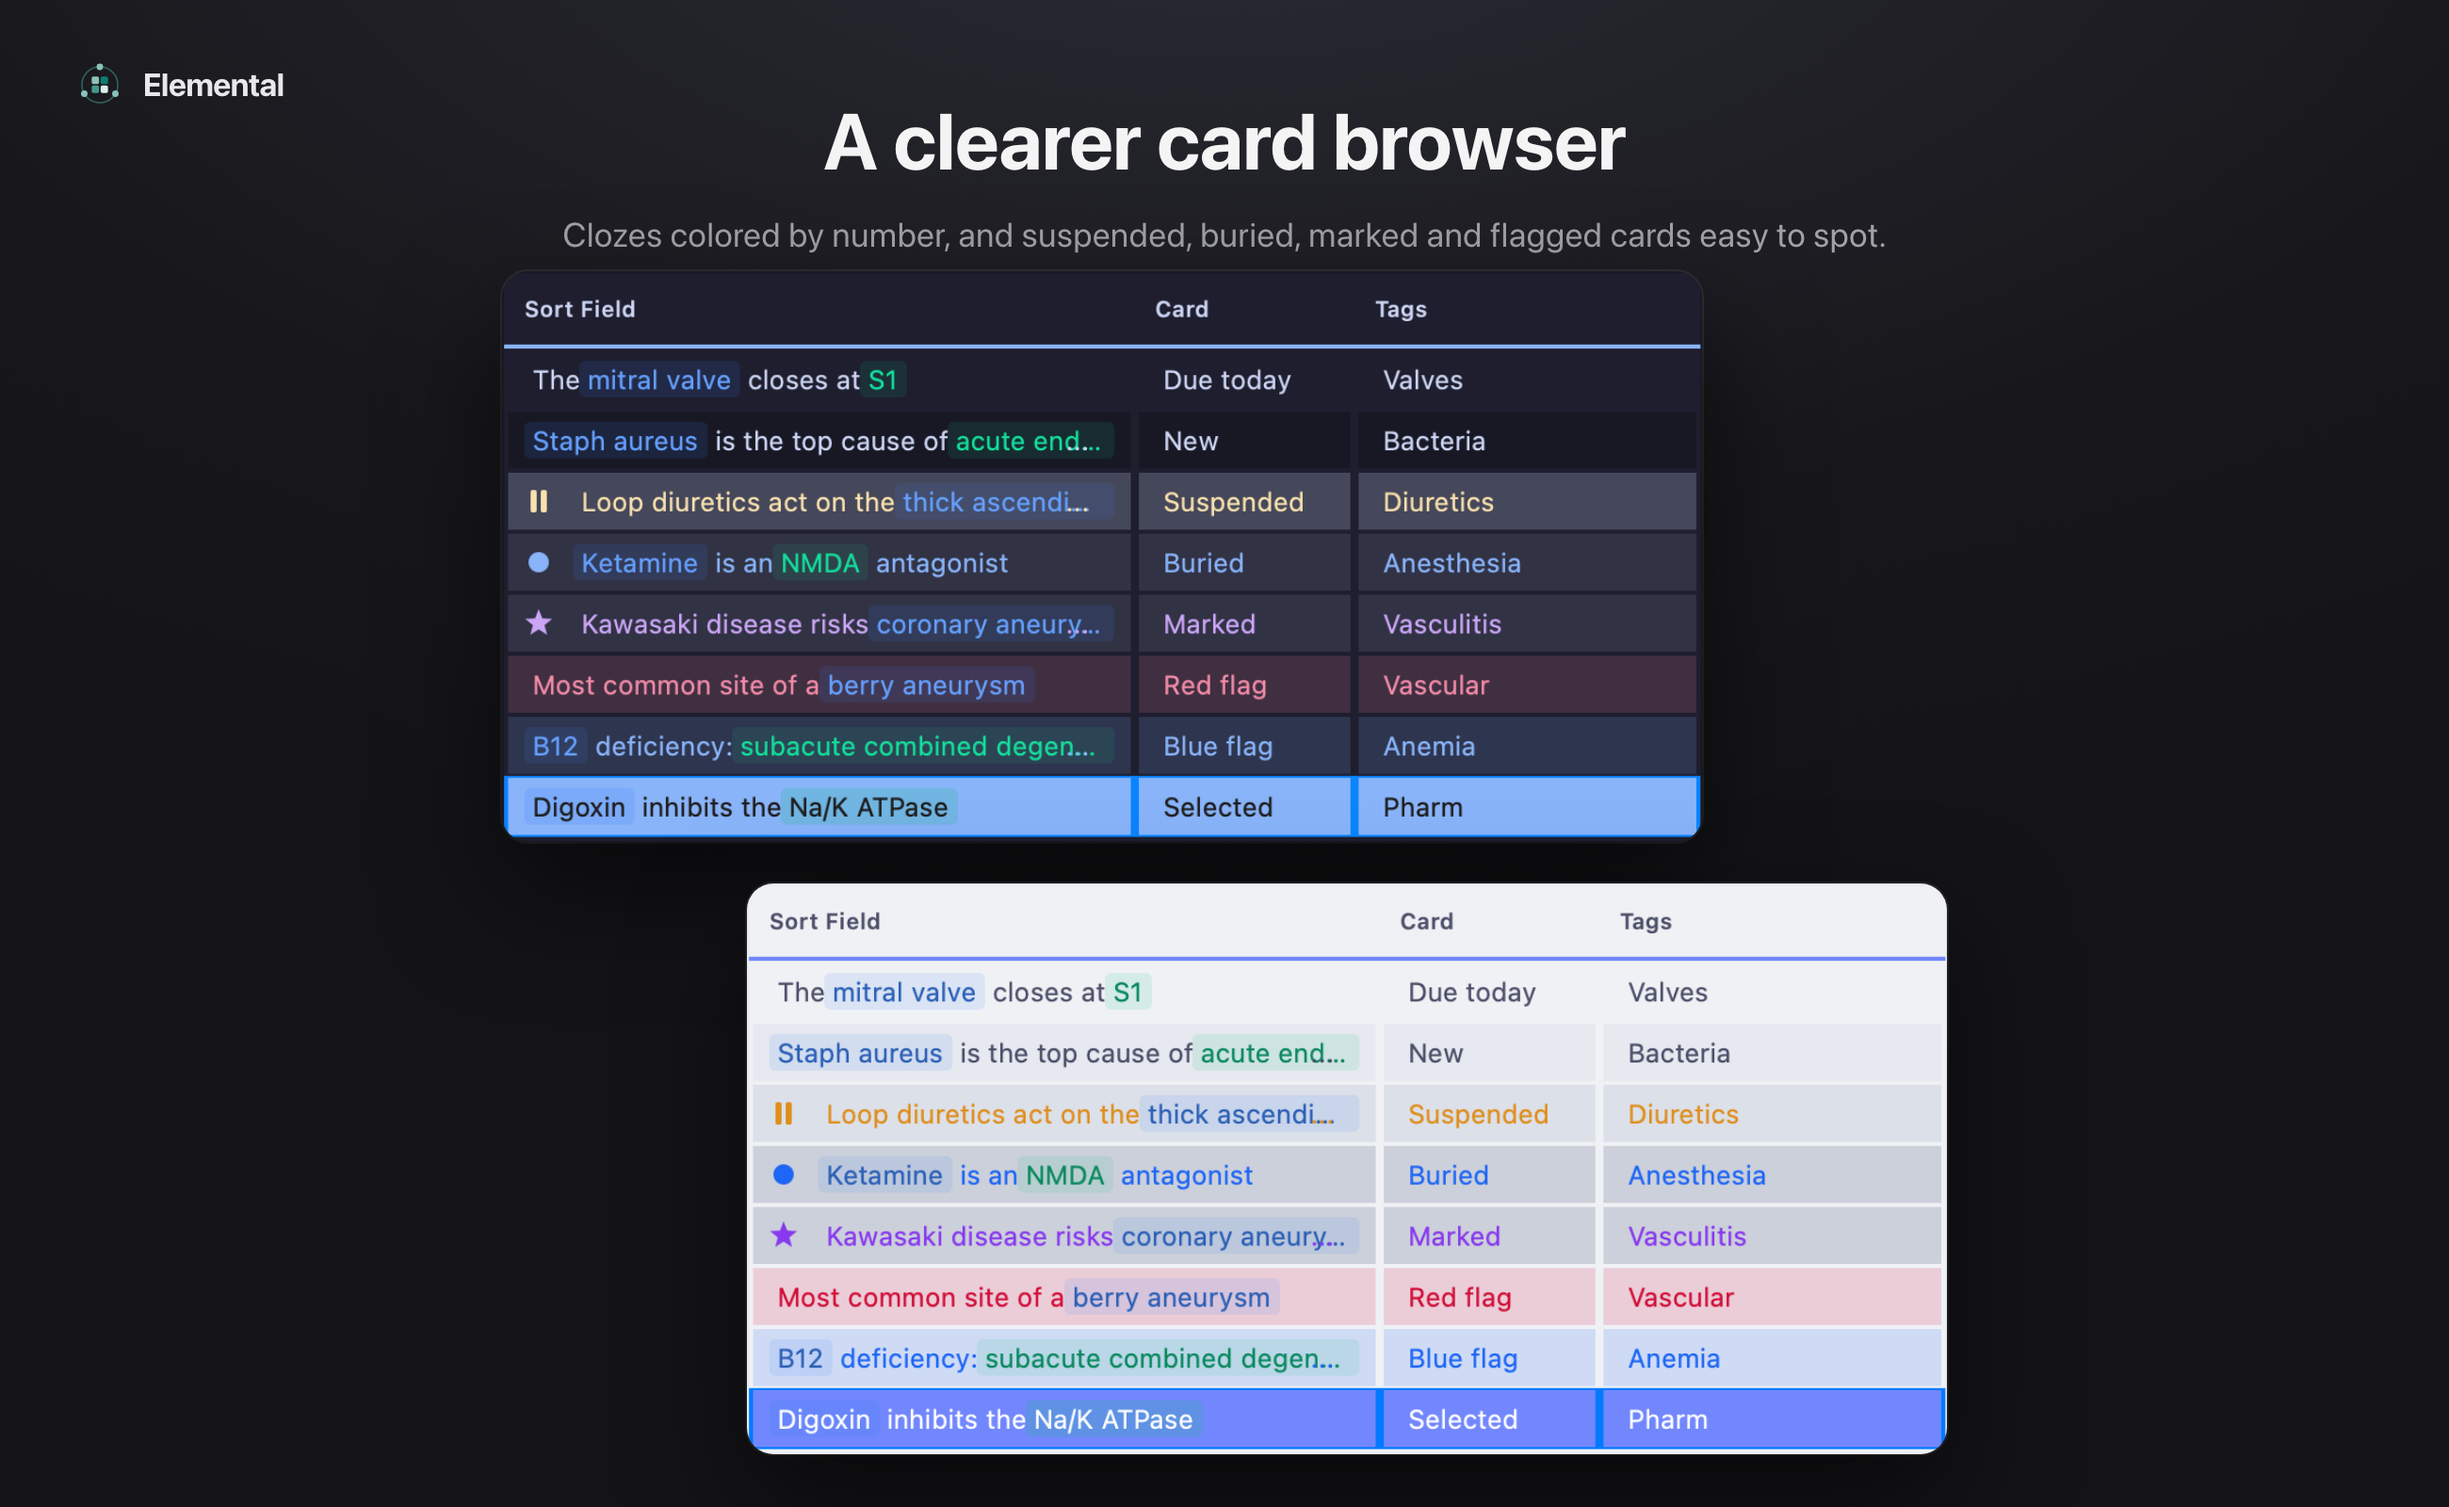
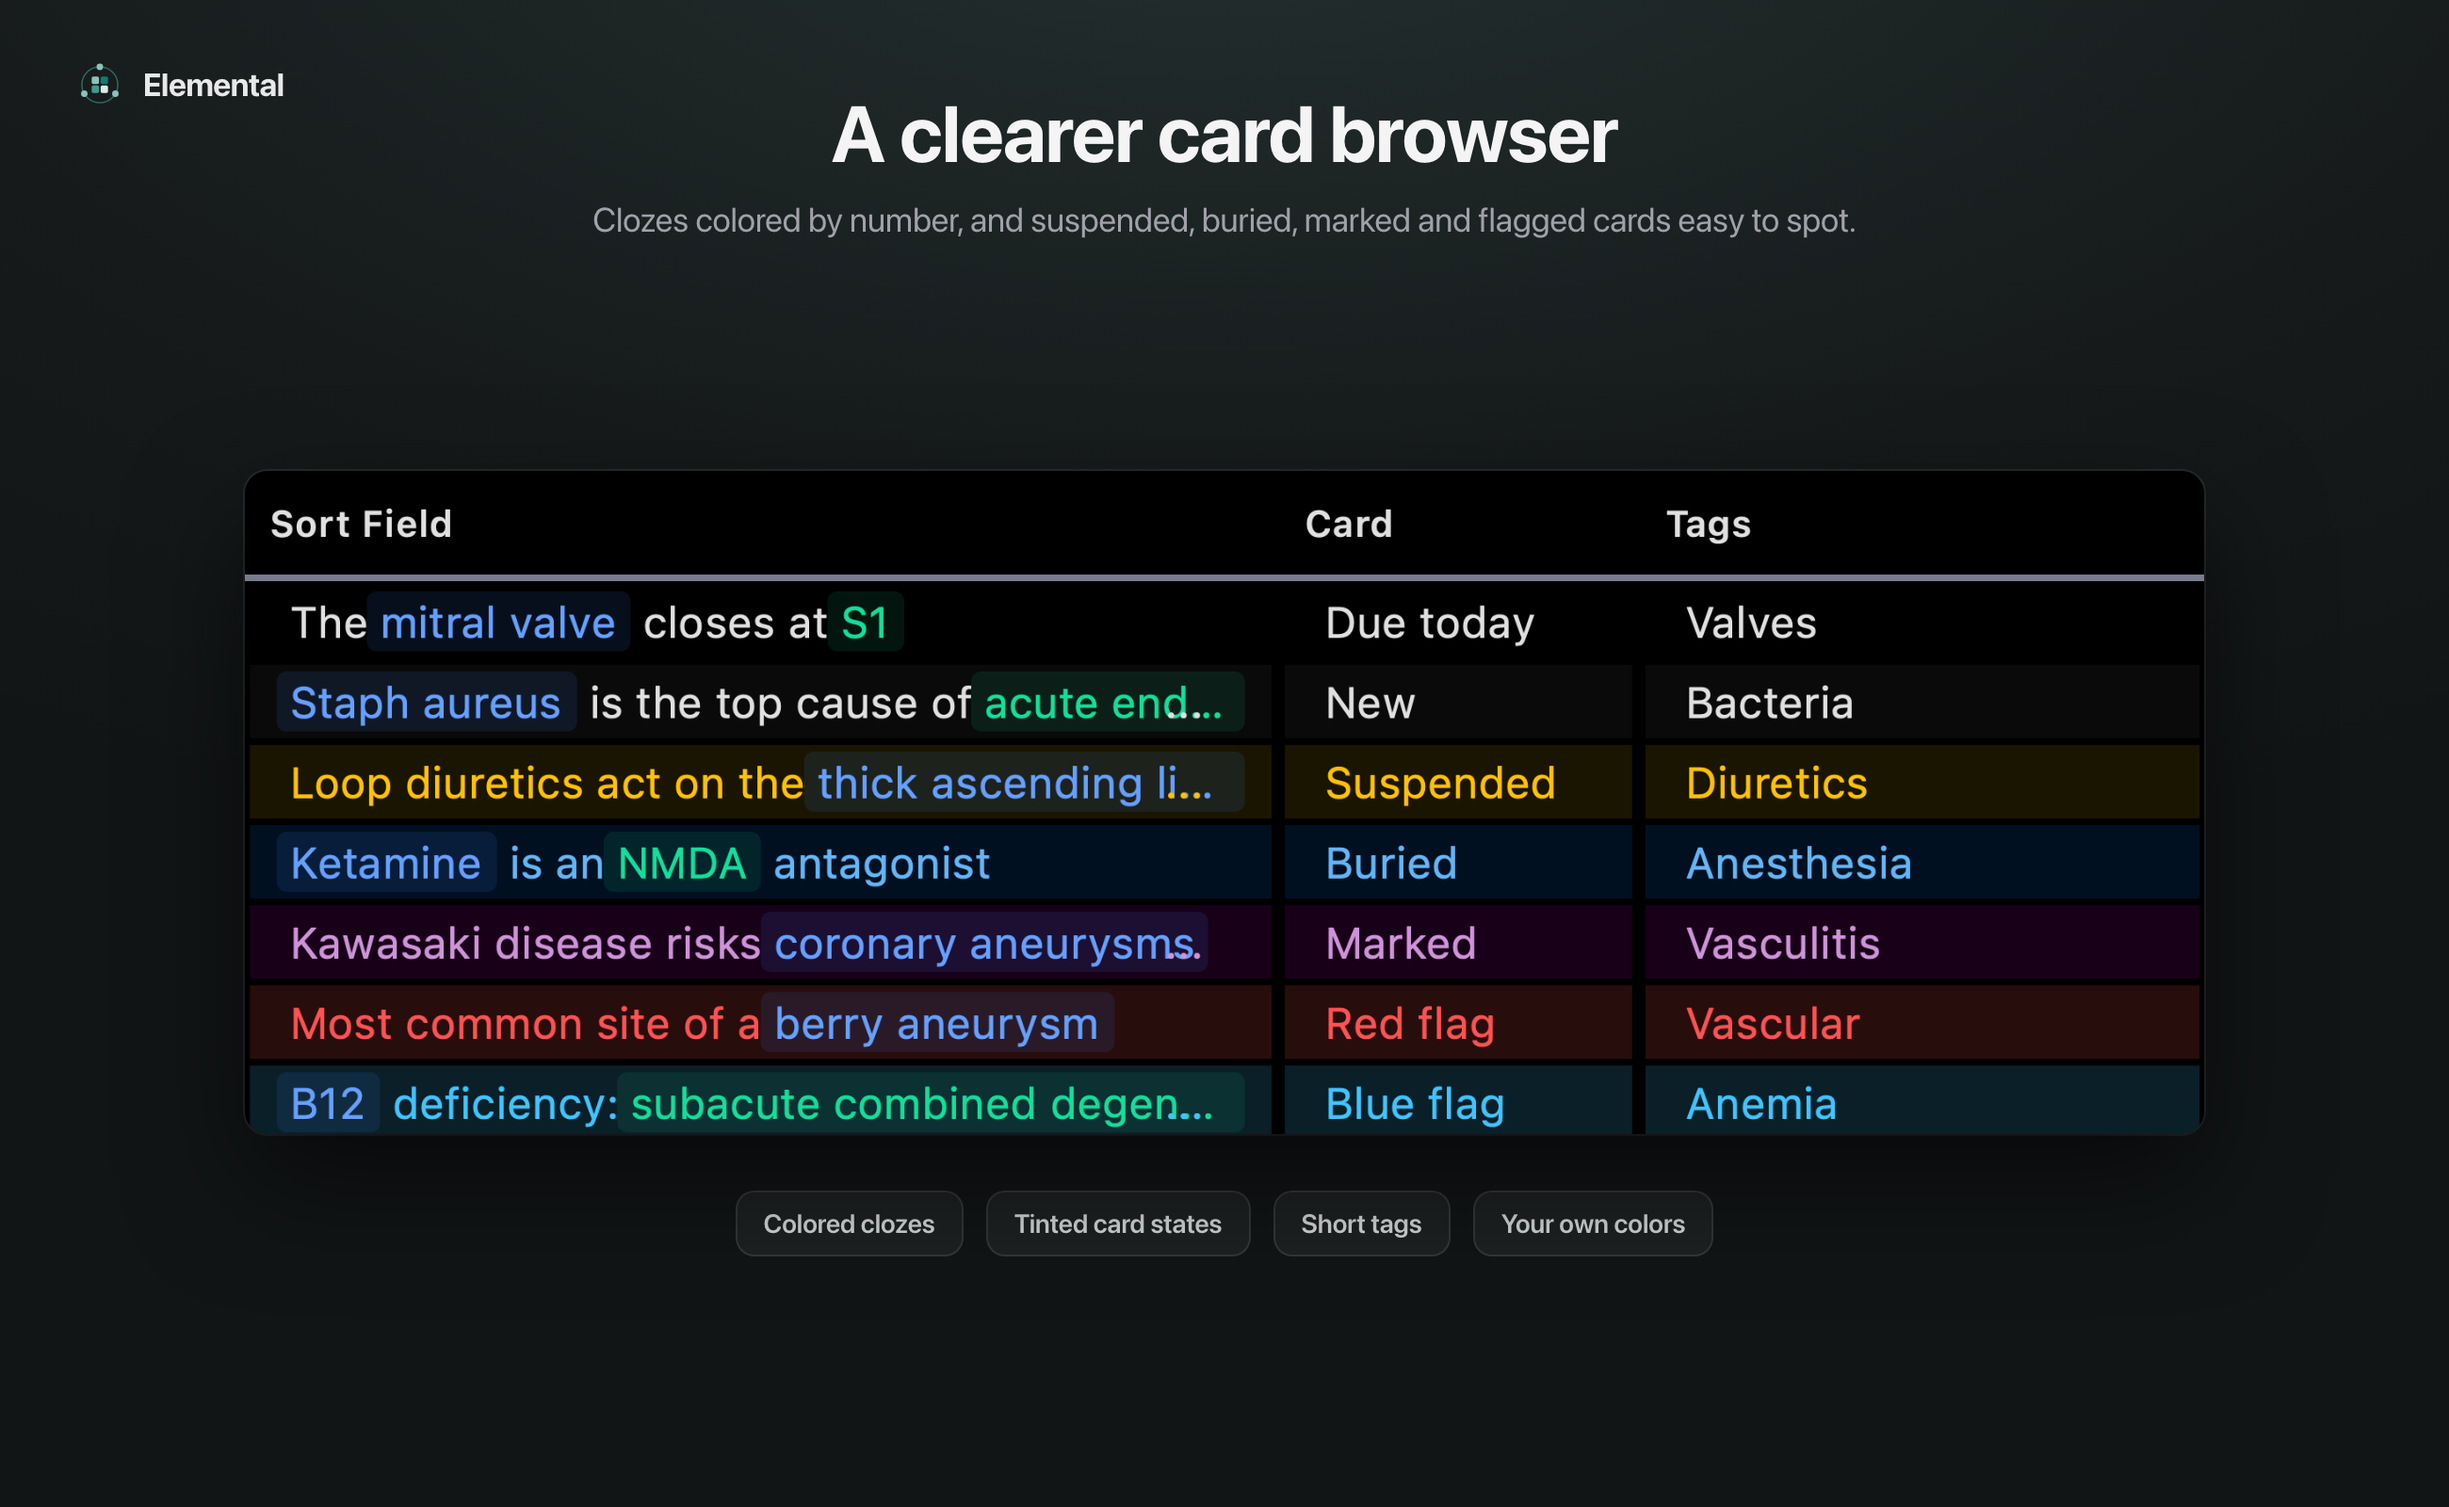
Card browser poster in the Darkest theme, without state symbols
Captured from the Settings preview with the author's own browser look:
Darkest theme, custom colors, no suspended/buried/marked symbols.

diff --git a/promo/source/browser_cap.py b/promo/source/browser_cap.py
@@ -1,0 +1,24 @@
+"""The Card Browser preview from Settings, with the user's own browser settings."""
+import sys, os
+os.environ["QTWEBENGINE_CHROMIUM_FLAGS"] = "--disable-gpu"; os.environ.setdefault("QT_QPA_PLATFORM", "offscreen"); os.environ["QT_SCALE_FACTOR"] = "4"
+from PyQt6.QtWebEngineWidgets import QWebEngineView
+from PyQt6.QtWidgets import QApplication as _QA; _app = _QA(sys.argv)
+sys.path.insert(0, os.path.dirname(os.path.abspath(__file__)))
+from harness import load, S
+mod, mw, col = load(os.path.join(S, "promo_col/collection.anki2"))
+mod._is_dark_mode = lambda: True
+from aqt.qt import QPalette, QColor, QEventLoop, QTimer
+_app.setStyle("Fusion"); pal = QPalette()
+for role, c in ((QPalette.ColorRole.Window, "#2c2c2c"), (QPalette.ColorRole.WindowText, "#e8e8e8"), (QPalette.ColorRole.Base, "#1e1e1e"),
+                (QPalette.ColorRole.Text, "#e8e8e8"), (QPalette.ColorRole.Button, "#3a3a3a"), (QPalette.ColorRole.ButtonText, "#e8e8e8"),
+                (QPalette.ColorRole.Highlight, "#0a84ff")):
+    pal.setColor(role, QColor(c))
+_app.setPalette(pal)
+def wait(ms):
+    loop = QEventLoop(); QTimer.singleShot(ms, loop.quit); loop.exec()
+d = mod.HeatmapSettingsDialog(None); d.resize(940, 680); d.show()
+d.nav.setCurrentItem([it for it, *_ in d._pages if it.text() == "Card Browser"][0]); wait(600)
+print("theme", d.browser_theme_combo.currentData(), "| custom", d.chk_custom_colors.isChecked(), "| icons", d.chk_state_icons.isChecked(),
+      "| spacing", d.browser_spacing_combo.currentData(), flush=True)
+img = d.browser_preview.grab(); img.save(os.path.join(S, "promo", "browser_mine.png")); print("saved", img.width(), img.height(), flush=True)
+os._exit(0)

diff --git a/promo/source/make_posters.py b/promo/source/make_posters.py
@@ -282,6 +282,20 @@ pages["17-weak-spots"] = (1300, 800, f"""<style>{BASE}
 {png("stats_remembered.png", 396, 224, 0.94)}
 </div>""")
 
+# 06: the card browser with the user's own look (Darkest theme, no state symbols)
+BW = 1040
+pages["06-card-browser"] = (1300, 800, f"""<style>{BASE}
+.mark{{position:absolute;left:40px;top:32px;font-size:17px;color:#e8e8ea}}
+.head{{text-align:center;padding-top:46px}}h1{{font-size:42px;font-weight:700;letter-spacing:-.5px;margin:0}}
+.sub{{font-size:18px;color:#a1a1aa;margin:10px 0 0}}
+.st{{position:absolute;left:0;right:0;top:250px;display:flex;flex-direction:column;align-items:center;gap:30px}}
+.keys{{display:flex;gap:12px}}.keys span{{font-size:14px;font-weight:600;color:#d4d8d7;padding:8px 14px;border-radius:10px;
+ background:rgba(255,255,255,.05);border:1px solid rgba(255,255,255,.1)}}</style>
+<div class="mark">{logo(26)}Elemental</div>
+<div class="head"><h1>A clearer card browser</h1><div class="sub">Clozes colored by number, and suspended, buried, marked and flagged cards easy to spot.</div></div>
+<div class="st">{png("browser_mine_crop.png", 2348 / 2.257, 794 / 2.257, 1.0, "border-radius:12px")}
+<div class="keys"><span>Colored clozes</span><span>Tinted card states</span><span>Short tags</span><span>Your own colors</span></div></div>""")
+
 os.makedirs(os.path.join(HERE, "html"), exist_ok=True)
 with open(os.path.join(HERE, "list.txt"), "w") as lst:
     for name, (w, h, body) in pages.items():
